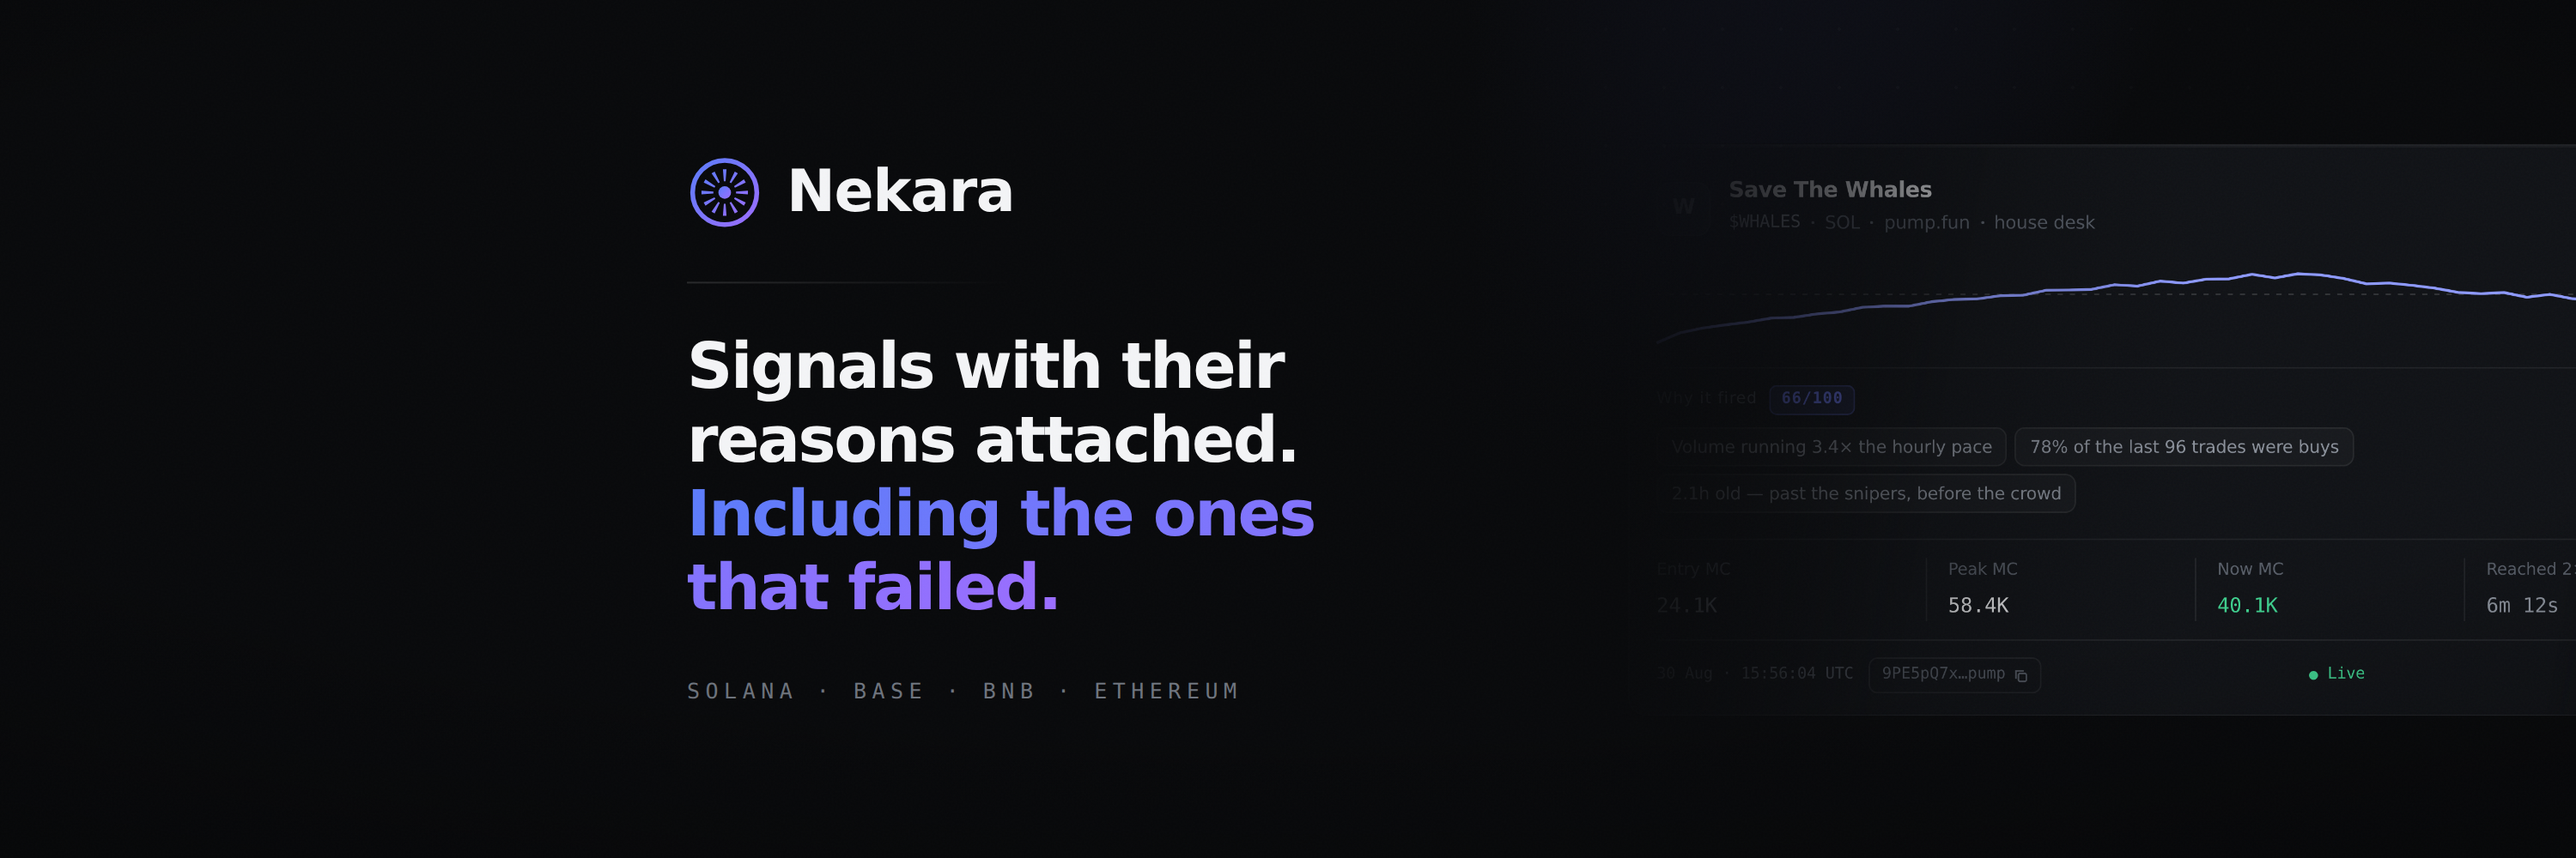
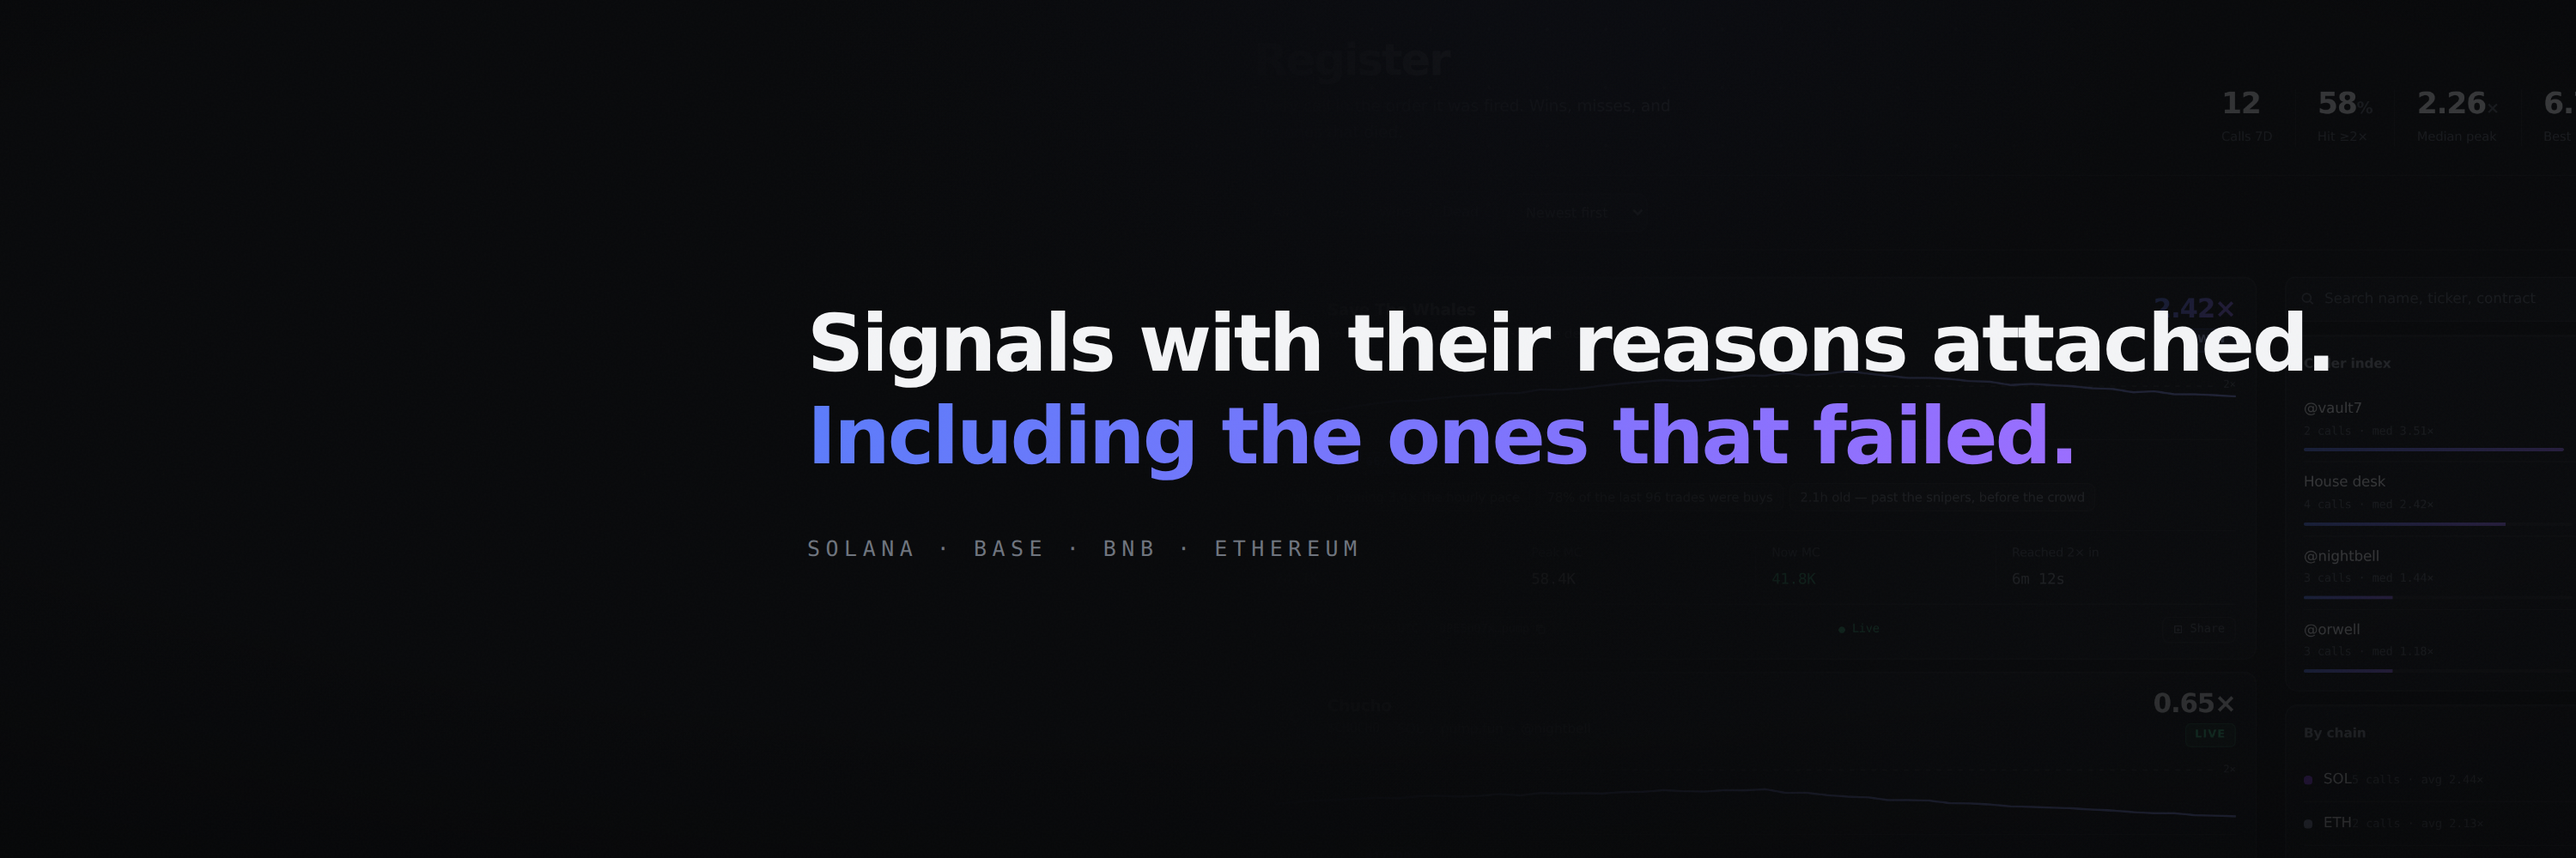
brand: rework the X header, and a bio that adds rather than echoes
Seeing the header on a live profile showed two things the guides do not. The
avatar is much larger than assumed — it covers x 39-399 from y 295 down — so
type starting at x 400 sat against its edge, and the whole top-left went
unused. And the profile prints the name directly under the header, which made
the wordmark up there the same word twice.

So the wordmark comes off and the statement takes the space: two lines at 46px
starting clear of the avatar, with the register bleeding off the right edge
behind it instead of a card that read as noise. Checked against a simulated
avatar disc at the measured position rather than against a guess.

The bio was restating the header. It now carries the mechanism the header has
no room for — the append-only register, and why a miss cannot be taken down.
Three lengths.

Claude-Session: https://claude.ai/code/session_016zWz5hmUVXVKpbXpns3J9C

diff --git a/brand/banners/x-header.html b/brand/banners/x-header.html
@@ -39,14 +39,12 @@ h1,h2{font-family:var(--display);font-weight:600;letter-spacing:-.032em;line-hei
  background:radial-gradient(125% 105% at 50% 38%,transparent 42%,rgba(0,0,0,.55))}
 </style><style>body{width:1500px;height:500px}</style>
 <div class="aur"></div><div class="dots"></div>
-<img class="ui" src="file:///home/user/mintnft/brand/shots/c-win.png" style="position:absolute;left:948px;top:50%;
-  transform:translateY(-50%);width:660px;
-  -webkit-mask-image:linear-gradient(100deg,transparent,#000 30%,#000 82%,transparent);
-  mask-image:linear-gradient(100deg,transparent,#000 30%,#000 82%,transparent);border:0;box-shadow:none">
-<div style="position:absolute;inset:0;background:linear-gradient(90deg,#08090B 57%,rgba(8,9,11,.48) 71%,transparent 85%)"></div>
-<div style="position:absolute;left:400px;top:50%;transform:translateY(-50%);width:520px">
-  <div class="wm"><svg viewBox="0 0 120 120" fill="none"><defs><linearGradient id="lg" x1="0" y1="0" x2="1" y2="1"><stop stop-color="#5B7CFA"/><stop offset="1" stop-color="#9B6DFF"/></linearGradient></defs><circle cx="60" cy="60" r="51" stroke="url(#lg)" stroke-width="7.5"/><path d="M57.16 23.11L62.84 23.11L61.38 42.05L58.62 42.05ZM75.99 26.63L80.9 29.47L70.17 45.15L67.78 43.77ZM90.53 39.1L93.37 44.01L76.23 52.22L74.85 49.83ZM96.89 57.16L96.89 62.84L77.95 61.38L77.95 58.62ZM93.37 75.99L90.53 80.9L74.85 70.17L76.23 67.78ZM80.9 90.53L75.99 93.37L67.78 76.23L70.17 74.85ZM62.84 96.89L57.16 96.89L58.62 77.95L61.38 77.95ZM44.01 93.37L39.1 90.53L49.83 74.85L52.22 76.23ZM29.47 80.9L26.63 75.99L43.77 67.78L45.15 70.17ZM23.11 62.84L23.11 57.16L42.05 58.62L42.05 61.38ZM26.63 44.01L29.47 39.1L45.15 49.83L43.77 52.22ZM39.1 29.47L44.01 26.63L52.22 43.77L49.83 45.15Z" fill="url(#lg)"/><circle cx="60" cy="60" r="10" fill="url(#lg)"/></svg><span>Nekara</span></div>
-  <div class="rule-l" style="width:190px;margin:30px 0 28px"></div>
-  <h1 style="font-size:37px;line-height:1.16">Signals with their<br>reasons attached.<br><span class="grad-tx">Including the ones<br>that failed.</span></h1>
+<img src="file:///home/user/mintnft/brand/shots/pv-reg.png" style="position:absolute;right:-90px;top:50%;transform:translateY(-50%);
+  width:920px;opacity:.42;
+  -webkit-mask-image:linear-gradient(90deg,transparent,#000 48%);
+  mask-image:linear-gradient(90deg,transparent,#000 48%)">
+<div style="position:absolute;inset:0;background:linear-gradient(90deg,#08090B 30%,rgba(8,9,11,.90) 52%,rgba(8,9,11,.66) 74%,rgba(8,9,11,.5))"></div>
+<div style="position:absolute;left:470px;top:50%;transform:translateY(-50%);width:950px">
+  <h1 style="font-size:46px;line-height:1.18">Signals with their reasons attached.<br><span class="grad-tx">Including the ones that failed.</span></h1>
   <div class="eyebrow" style="margin-top:30px">Solana · Base · BNB · Ethereum</div>
 </div><div class="vig"></div><div class="grain"></div>

diff --git a/brand/mkbanners.js b/brand/mkbanners.js
@@ -65,16 +65,19 @@ const post=(eyebrow,head,sub,right)=>page(1600,900,`
 
 /* 1 — X header. Left 380px stays clear for the avatar; the register card
       leans in from the right so the profile shows the product, not a texture. */
+/* X header. Two things learned from seeing it on a live profile: the avatar
+   is far bigger than the guides suggest — it covers x 39-399 from y 295 down —
+   and the profile already prints the name under it, so a wordmark up here is
+   the same word twice. The statement gets the space instead, at a size that
+   survives the crop. */
 fs.writeFileSync('brand/banners/x-header.html', page(1500,500,`
-<img class="ui" src="${SHOT('c-win.png')}" style="position:absolute;left:948px;top:50%;
-  transform:translateY(-50%);width:660px;
-  -webkit-mask-image:linear-gradient(100deg,transparent,#000 30%,#000 82%,transparent);
-  mask-image:linear-gradient(100deg,transparent,#000 30%,#000 82%,transparent);border:0;box-shadow:none">
-<div style="position:absolute;inset:0;background:linear-gradient(90deg,#08090B 57%,rgba(8,9,11,.48) 71%,transparent 85%)"></div>
-<div style="position:absolute;left:400px;top:50%;transform:translateY(-50%);width:520px">
-  <div class="wm">${MARK}<span>Nekara</span></div>
-  <div class="rule-l" style="width:190px;margin:30px 0 28px"></div>
-  <h1 style="font-size:37px;line-height:1.16">Signals with their<br>reasons attached.<br><span class="grad-tx">Including the ones<br>that failed.</span></h1>
+<img src="${SHOT('pv-reg.png')}" style="position:absolute;right:-90px;top:50%;transform:translateY(-50%);
+  width:920px;opacity:.42;
+  -webkit-mask-image:linear-gradient(90deg,transparent,#000 48%);
+  mask-image:linear-gradient(90deg,transparent,#000 48%)">
+<div style="position:absolute;inset:0;background:linear-gradient(90deg,#08090B 30%,rgba(8,9,11,.90) 52%,rgba(8,9,11,.66) 74%,rgba(8,9,11,.5))"></div>
+<div style="position:absolute;left:470px;top:50%;transform:translateY(-50%);width:950px">
+  <h1 style="font-size:46px;line-height:1.18">Signals with their reasons attached.<br><span class="grad-tx">Including the ones that failed.</span></h1>
   <div class="eyebrow" style="margin-top:30px">Solana · Base · BNB · Ethereum</div>
 </div>`));
 

diff --git a/brand/COPY.md b/brand/COPY.md
@@ -10,10 +10,24 @@ see **Before you post** at the bottom, which is not optional.
 
 **Name** — `Nekara`
 
-**Bio** (153 / 160)
+**Bio.** The header already carries the statement, so the bio should not
+repeat it. Its job is the mechanism — why the claim is checkable.
 
-> A public register of automated trading signals. Every call published with the
-> reasons that fired it, then tracked to win, miss or dead. Failures stay up.
+Recommended (155 / 160):
+
+> An automated screener across four chains. Every call is hashed into an
+> append-only register — the misses stay up because the schema refuses to
+> delete them.
+
+Shorter (136), if you want the chains named:
+
+> Automated signals across Solana, Base, BNB and Ethereum. Every call hashed
+> into an append-only register, so the misses cannot come down.
+
+Sharpest (125), once the account has calls to back it:
+
+> Wins, misses and the ones that died, on the same page, under the same rules.
+> Removing any of them breaks every hash after it.
 
 **Pinned post** — use post 1 below.
 
